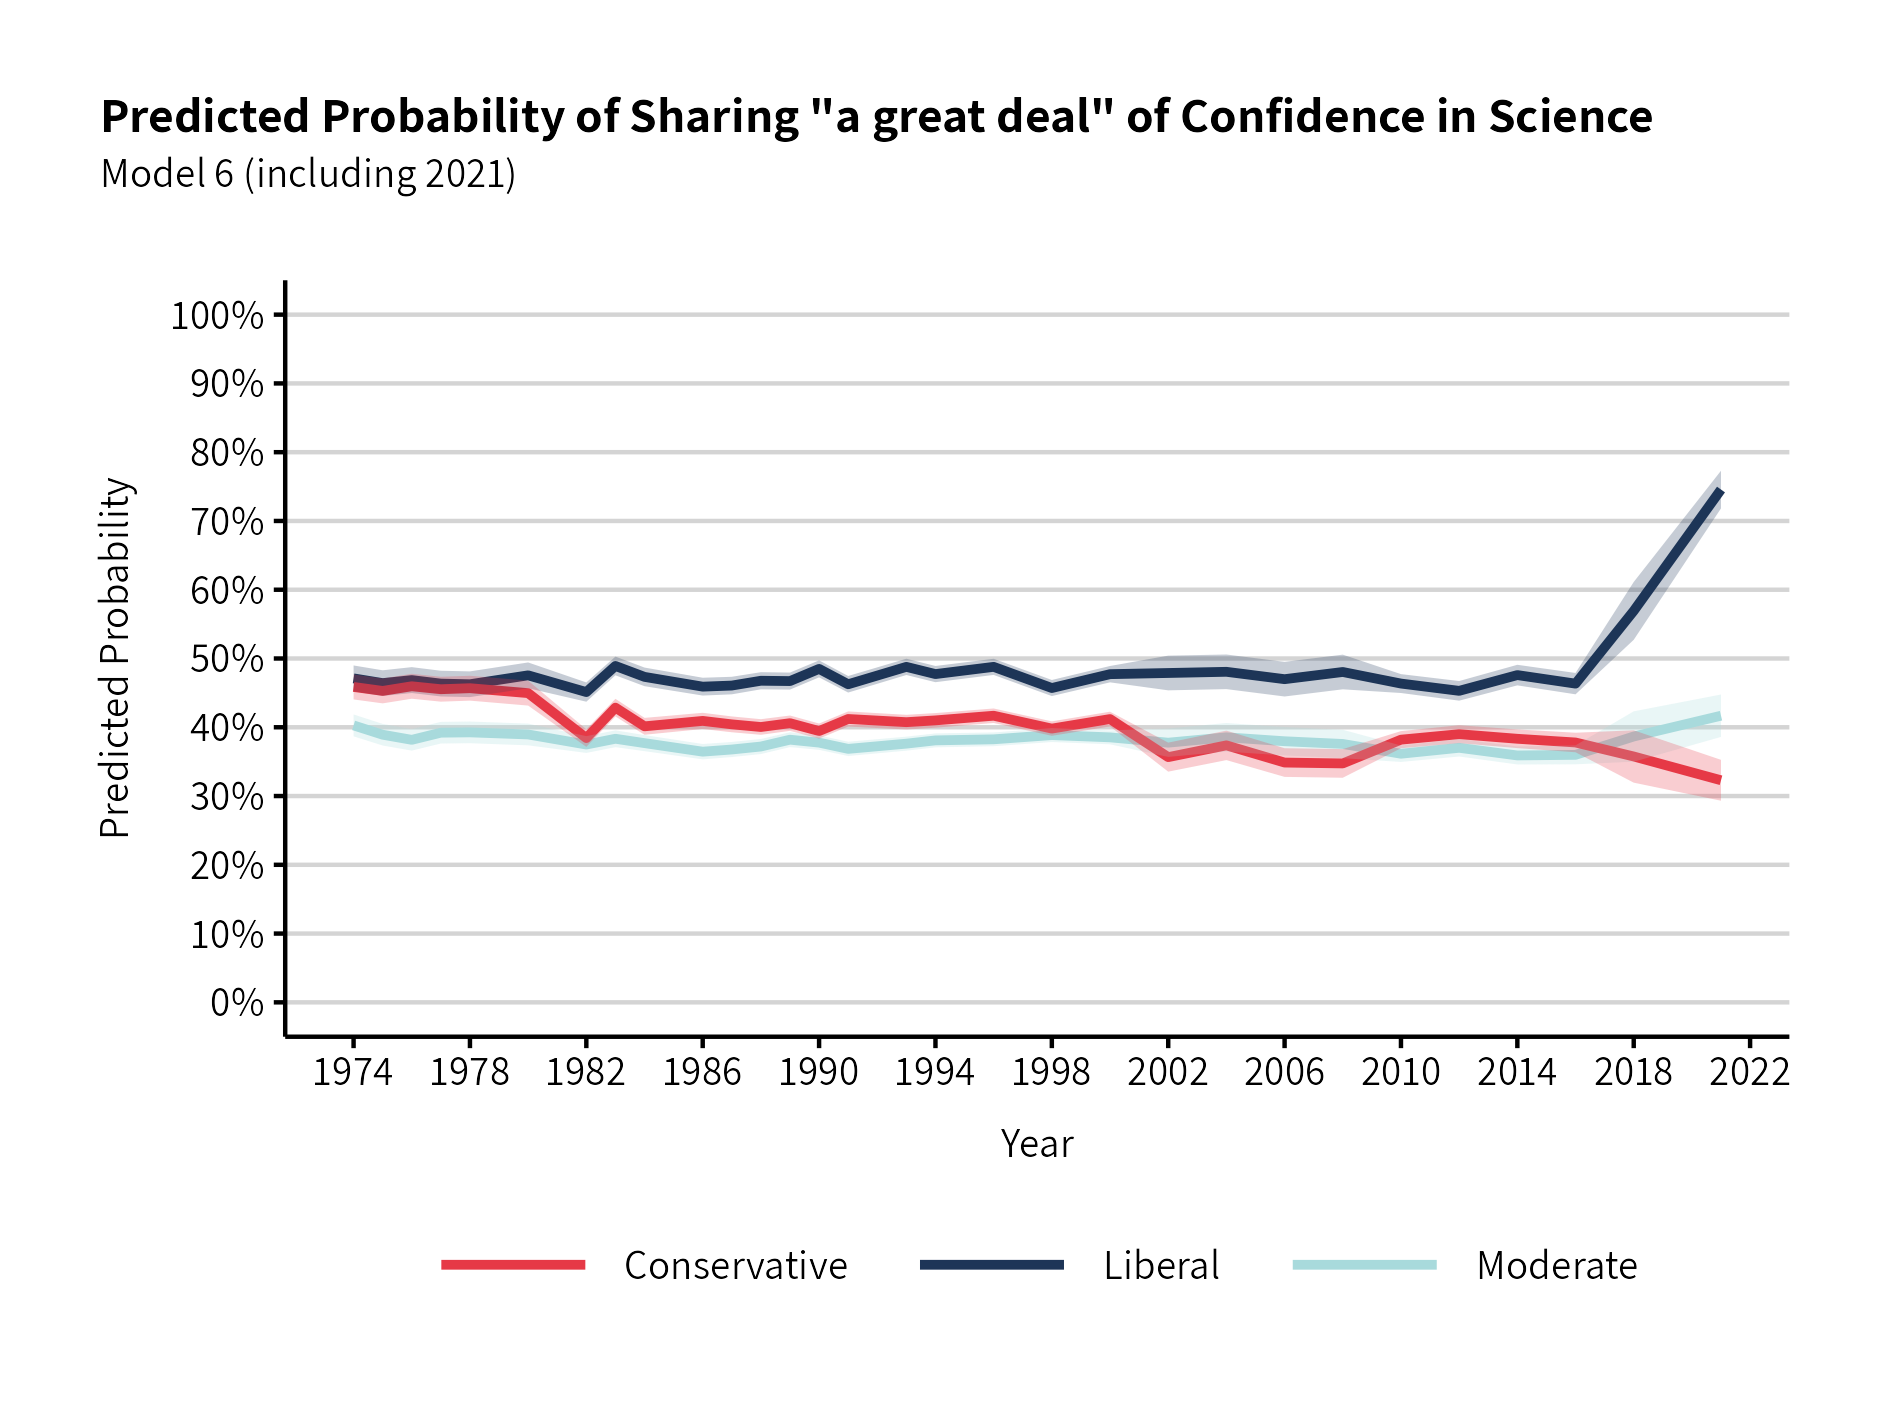
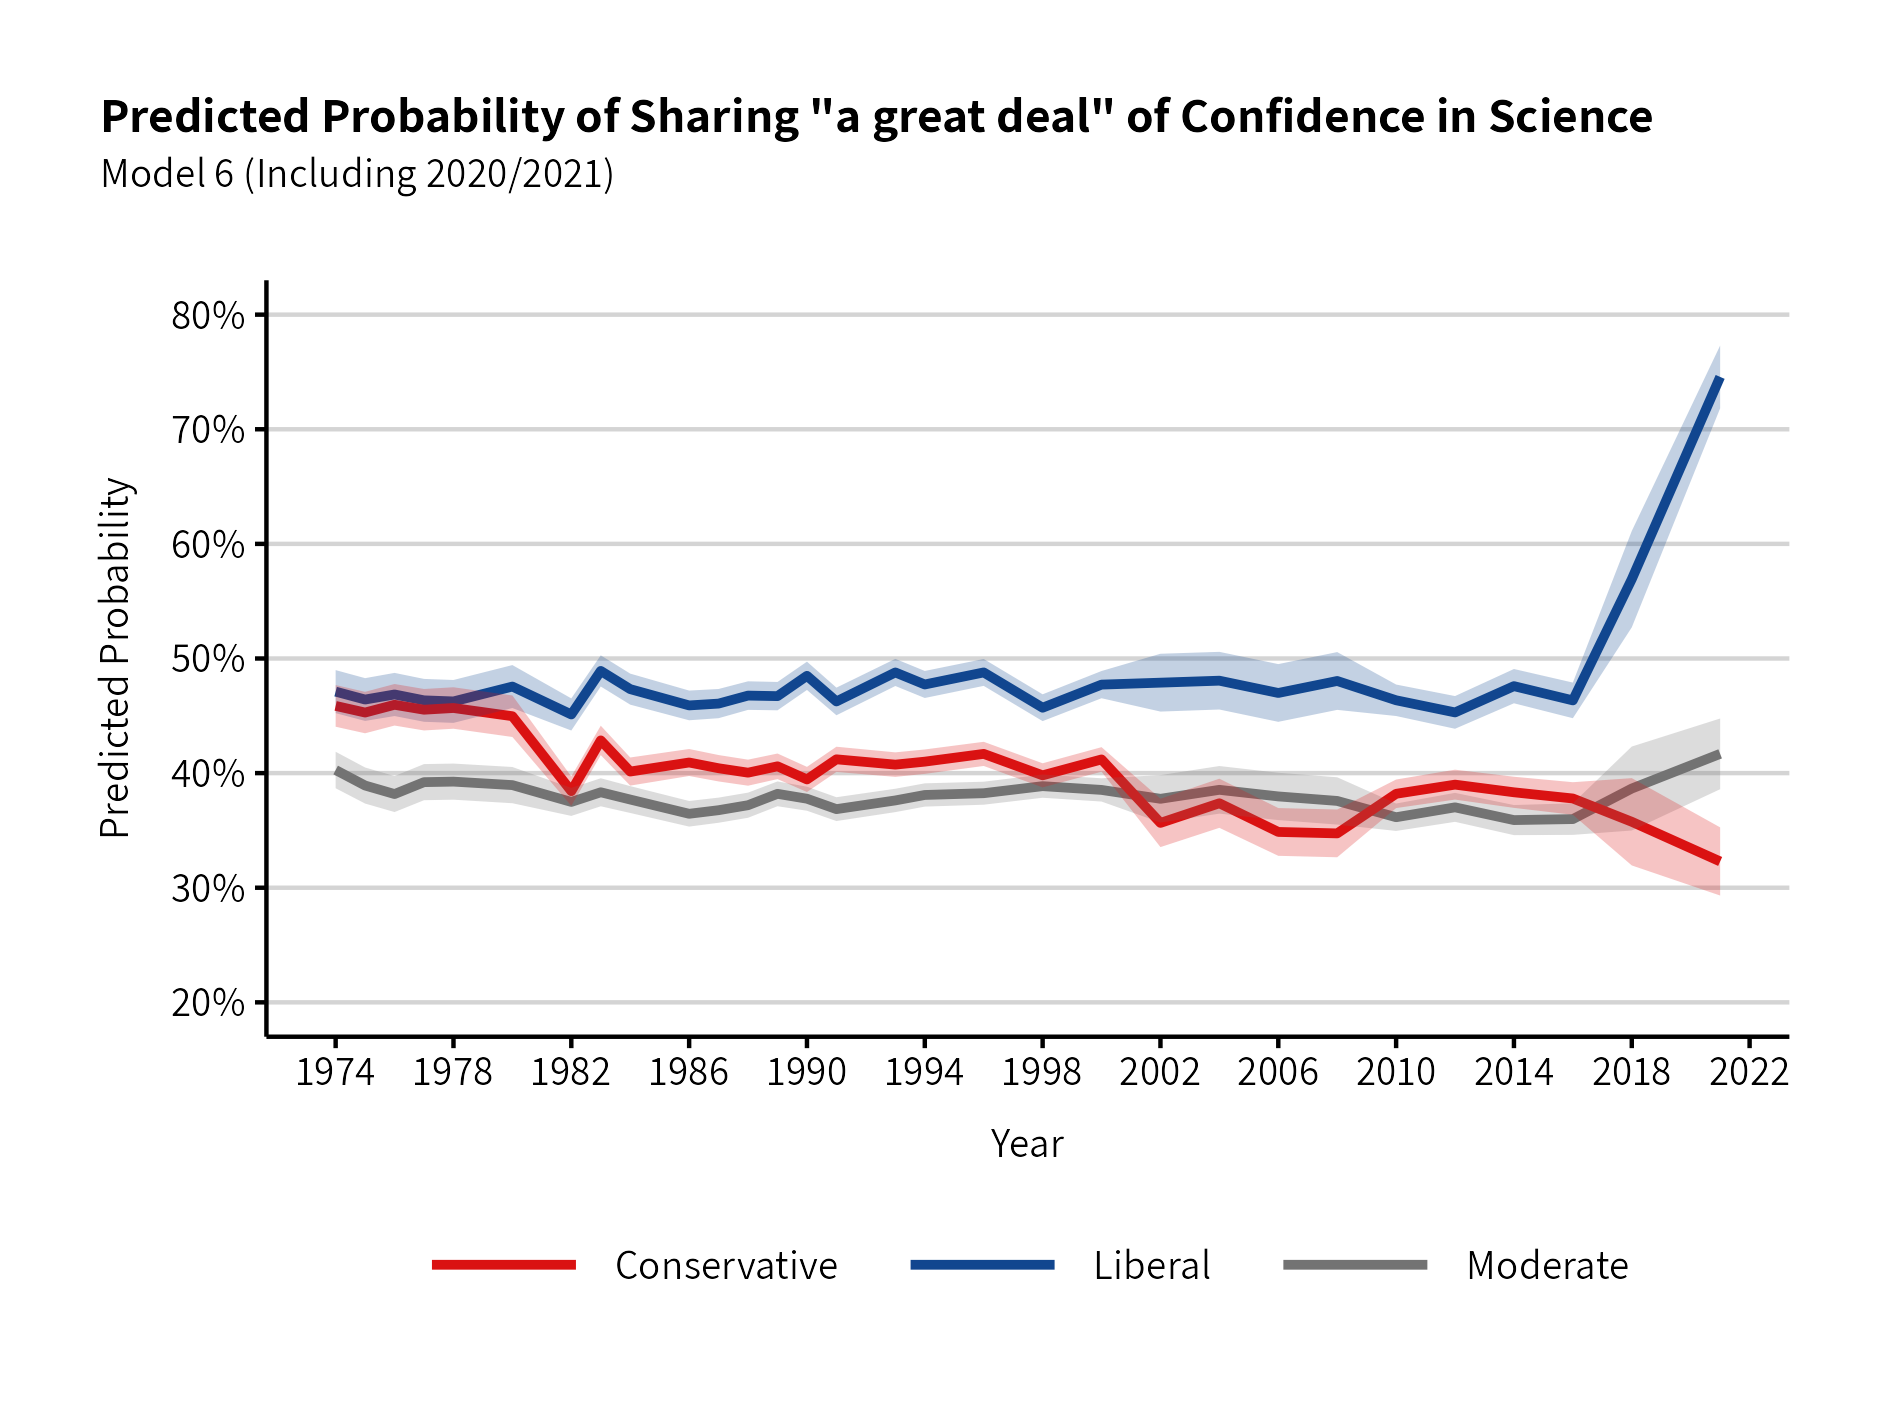
Update prediction polview-year figures

diff --git a/figures/style-guide-colors.md b/figures/style-guide-colors.md
@@ -1,0 +1,18 @@
+# Style Guide: Colors
+
+A list of colors (HEX colors) used in visualizations for my bachelor thesis. The secondary political ideology colors are derived from the respective primary colors with an opacity of 25%.
+
+- Basic:
+  - Primary (black): `#262626`
+  - Secondary (gray): `#737373`
+  - Tertiary (light gray): `#e5e5e5`
+- Political ideology:
+  - Red (conservative/Republican):
+    - Primary: `#da1212`
+    - Secondary: `#f5c3c3`
+  - Blue (liberal/Democract):
+    - Primary: `#11468F`
+    - Secondary: `#c3d0e3`
+  - Gray (moderate/independent):
+    - Primary: `#737373`
+    - Secondary: `#dcdcdc`
